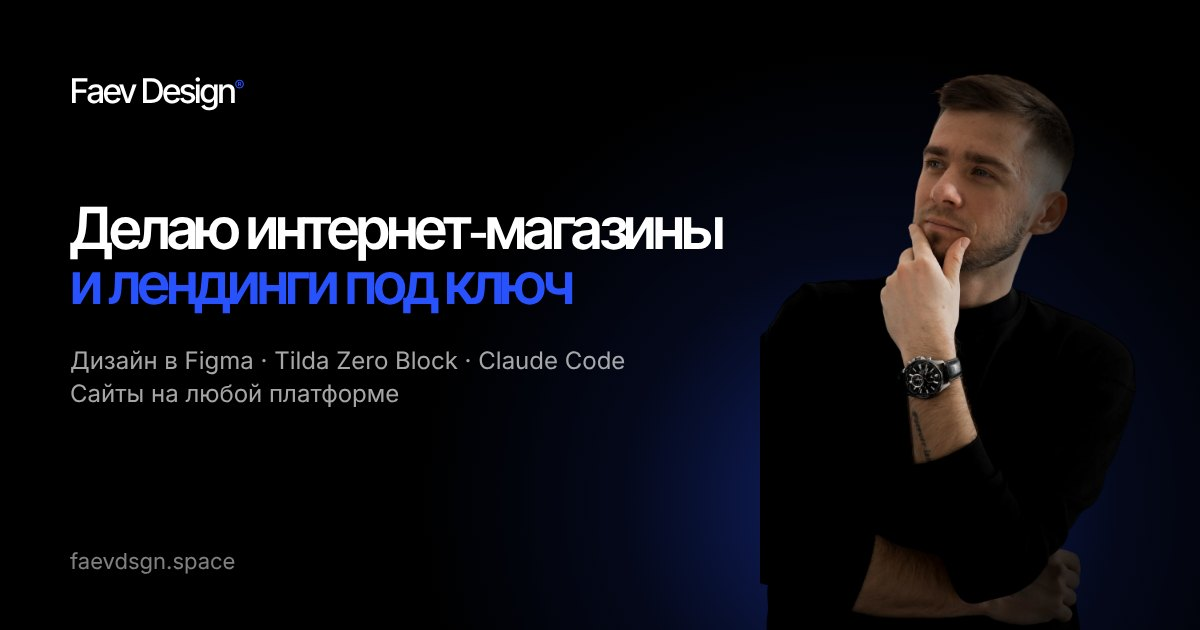
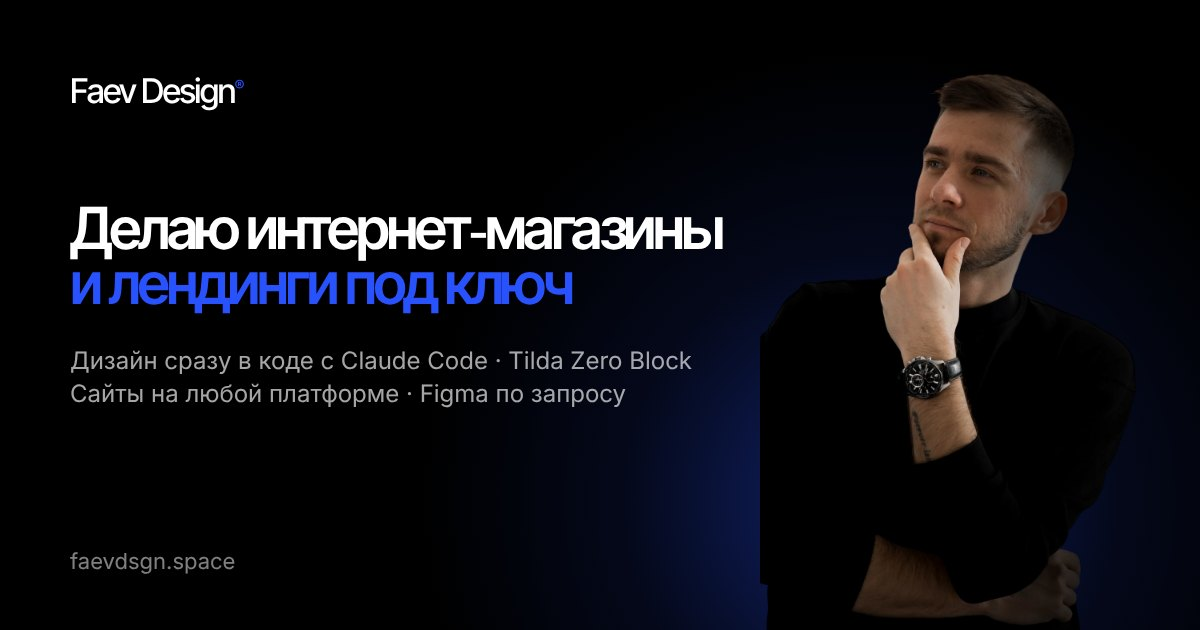
Describe design-in-code workflow, Figma on request
Texts now say Ivan designs straight in code with Claude Code and draws
Figma mockups on request: description, manifesto, intro column, About,
UI/UX service list, payment FAQ, new FAQ item, English strings and the
link preview card.

Claude-Session: https://claude.ai/code/session_01B8JzorBwYD9xgAdkLgyuW4

Changed region(s): [[0.1233, 0.5429, 0.5858, 0.6635]]

diff --git a/js/i18n.js b/js/i18n.js
@@ -11,7 +11,7 @@
 const EN = {
     // Заголовок вкладки и описание для поисковиков
     'Faev Design — интернет-магазины и лендинги под ключ | Иван Фаев': 'Faev Design — online stores and landing pages, turnkey | Ivan Faev',
-    'Иван Фаев — веб-дизайнер. Делаю интернет-магазины и лендинги под ключ: дизайн в Figma, сайты на Tilda (Zero Block) и других платформах, разработка на коде с Claude Code.': 'Ivan Faev — web designer. I build online stores and landing pages, turnkey: design in Figma, websites on Tilda (Zero Block) and other platforms, coded development with Claude Code.',
+    'Иван Фаев — веб-дизайнер. Делаю интернет-магазины и лендинги под ключ: дизайн и разработка сразу в коде с Claude Code, сайты на Tilda (Zero Block) и других платформах, макеты в Figma — по запросу.': 'Ivan Faev — web designer. I build online stores and landing pages, turnkey: design and development straight in code with Claude Code, websites on Tilda (Zero Block) and other platforms, Figma mockups on request.',
 
     // Прелоадер и шапка
     'Веб-дизайн и разработка сайтов': 'Web design & development',
@@ -37,11 +37,10 @@ const EN = {
     'Открыт для проектов на 2026 год': 'Open for projects in 2026',
 
     // Манифест и цифры
-    'Беру проект целиком: от структуры и дизайна в Figma до готового сайта на Tilda или на коде. Не нужно искать отдельно дизайнера и разработчика — всё делаю сам.': 'I take the whole project: from structure and design in Figma to a finished website on Tilda or in code. No need to look for a separate designer and developer — I do it all myself.',
+    'Беру проект целиком: от структуры и дизайна до готового сайта. Чаще всего делаю дизайн сразу в коде — вы видите живой сайт, а не картинку. Не нужно искать отдельно дизайнера и разработчика — всё делаю сам.': 'I take the whole project: from structure and design to a finished website. Most often I design straight in code — you see a live site, not a picture. No need to look for a separate designer and developer — I do it all myself.',
     'Понятный процесс: бриф, структура, дизайн, вёрстка и запуск. На каждом этапе вы видите результат и можете внести правки.': 'A clear process: brief, structure, design, build and launch. At every stage you see the result and can request changes.',
     'Дизайн и вёрстка в одних руках': 'Design and build in one pair of hands',
-    'Сам рисую макет в Figma и сам собираю его на Tilda или в коде — ничего не теряется при передаче между подрядчиками.':
-        'I design the layout in Figma and build it myself on Tilda or in code — nothing gets lost between contractors.',
+    'Дизайн делаю сразу в коде, опираясь на опыт и насмотренность. Если нужно сначала согласовать макет — отрисую его в Figma.': 'I design straight in code, relying on experience and a trained eye. If you need to approve a mockup first, I’ll draw it in Figma.',
     'лет в веб-дизайне': 'years in web design',
     'От лендинга до магазина': 'From landing page to online store',
     'Лендинг для рекламы или услуги, интернет-магазин с каталогом, корзиной и оплатой, корпоративный сайт компании.': 'A landing page for ads or a service, an online store with a catalogue, cart and payment, a corporate website.',
@@ -121,10 +120,8 @@ const EN = {
     '(Обо мне)': '(About)',
     'Привет, я Иван Фаев': 'Hi, I’m Ivan Faev',
     'Я веб-дизайнер: делаю дизайн и вёрстку интернет-магазинов, лендингов и корпоративных сайтов.': 'I’m a web designer: I design and build online stores, landing pages and corporate websites.',
-    'Собираю нестандартные проекты на Tilda, включая сложные анимации в Zero Block, CSS и JS, и разрабатываю сайты с помощью кода. Макеты рисую индивидуально в Figma под конкретные задачи бизнеса.':
-        'I build non-standard projects on Tilda, including complex animations in Zero Block, CSS and JS, and develop websites in code. Every layout is designed in Figma around the specific goals of the business.',
-    'В разработке активно работаю с Claude Code — AI-ассистентом для программирования. Он помогает быстрее собирать сайты на коде, сложные анимации и интеграции, а у меня остаётся больше времени на дизайн и детали.':
-        'In development I work extensively with Claude Code, an AI coding assistant. It helps me build coded websites, complex animations and integrations faster, leaving more time for design and details.',
+    'Собираю нестандартные проекты на Tilda, включая сложные анимации в Zero Block, CSS и JS, и разрабатываю сайты с помощью кода. Работаю и в Figma: если проекту нужен отдельный макет, отрисую его по запросу.': 'I build non-standard projects on Tilda, including complex animations in Zero Block, CSS and JS, and develop websites in code. I also work in Figma: if a project needs a separate mockup, I’ll design it on request.',
+    'Основной инструмент — Claude Code, AI-ассистент для программирования. Собираю дизайн сразу в коде: ставлю задачу, а опыт и насмотренность помогают быстро прийти к нужному результату. Сайт с анимациями и интеграциями готов быстрее, а правки видны сразу на живой странице.': 'My main tool is Claude Code, an AI coding assistant. I build the design straight in code: I set the task, and experience and a trained eye help me get to the right result fast. A site with animations and integrations is ready sooner, and changes show up right on the live page.',
     'Работаю удалённо, на связи в Telegram и WhatsApp.': 'I work remotely and I’m available on Telegram and WhatsApp.',
 
     // Услуги
@@ -132,9 +129,9 @@ const EN = {
     'Что я могу для вас сделать': 'What I can do for you',
     'UI/UX дизайн': 'UI/UX design',
     'Проектирование логики': 'User flows and logic',
-    'Индивидуальный дизайн в Figma': 'Custom design in Figma',
+    'Дизайн сразу в коде или в Figma': 'Design straight in code or in Figma',
     'Десктоп и мобильная версии': 'Desktop and mobile versions',
-    'Подготовка макетов к вёрстке': 'Developer-ready layouts',
+    'Макет в Figma — по запросу': 'Figma mockup on request',
     'Вёрстка на Tilda / кодинг': 'Tilda build / coding',
     'Перенос дизайна на платформу': 'Moving the design to the platform',
     'Сложная анимация (Zero Block)': 'Complex animation (Zero Block)',
@@ -153,8 +150,10 @@ const EN = {
     '(Вопросы)': '(FAQ)',
     'Частые вопросы': 'Frequently asked questions',
     'Как происходит оплата?': 'How does payment work?',
-    'Работа делится на этапы. Обычно это предоплата 50% перед началом работы над дизайном и оставшиеся 50% после утверждения макетов — перед вёрсткой или сдачей готового проекта.':
-        'The work is split into stages. Usually it’s a 50% prepayment before the design starts and the remaining 50% once the layouts are approved — before development or delivery of the finished project.',
+    'Работа делится на этапы. Обычно это предоплата 50% перед началом работы и оставшиеся 50% после согласования дизайна или при сдаче готового проекта.': 'The work is split into stages. Usually it’s a 50% prepayment before the work starts and the remaining 50% once the design is approved or when the finished project is delivered.',
+    'Будет ли макет в Figma?': 'Will there be a Figma mockup?',
+    'По запросу — да. Обычно я делаю дизайн сразу в коде: вы смотрите живой сайт в браузере и на телефоне и даёте правки. Если нужно сначала утвердить картинку или передать макет другой команде, отрисую дизайн в Figma.':
+        'Yes, on request. Usually I design straight in code: you look at the live site in a browser and on your phone and give feedback. If you need to approve a picture first or hand a mockup to another team, I’ll design it in Figma.',
     'Сколько времени занимает разработка?': 'How long does development take?',
     'Всё зависит от сложности задачи. Лендинг в среднем занимает от 7 до 14 дней. Многостраничный корпоративный сайт — от 3 до 5 недель с учётом всех согласований.':
         'It depends on the complexity. A landing page usually takes 7 to 14 days. A multi-page corporate website takes 3 to 5 weeks, including all approvals.',

diff --git a/index.html b/index.html
@@ -4,14 +4,14 @@
     <meta charset="UTF-8">
     <meta name="viewport" content="width=device-width, initial-scale=1.0">
     <title>Faev Design — интернет-магазины и лендинги под ключ | Иван Фаев</title>
-    <meta name="description" content="Иван Фаев — веб-дизайнер. Делаю интернет-магазины и лендинги под ключ: дизайн в Figma, сайты на Tilda (Zero Block) и других платформах, разработка на коде с Claude Code.">
+    <meta name="description" content="Иван Фаев — веб-дизайнер. Делаю интернет-магазины и лендинги под ключ: дизайн и разработка сразу в коде с Claude Code, сайты на Tilda (Zero Block) и других платформах, макеты в Figma — по запросу.">
 
     <!-- Превью ссылки в Telegram, WhatsApp, соцсетях -->
     <meta property="og:type" content="website">
     <meta property="og:site_name" content="Faev Design">
     <meta property="og:url" content="https://faevdsgn.space/">
     <meta property="og:title" content="Faev Design — интернет-магазины и лендинги под ключ | Иван Фаев">
-    <meta property="og:description" content="Иван Фаев — веб-дизайнер. Делаю интернет-магазины и лендинги под ключ: дизайн в Figma, сайты на Tilda (Zero Block) и других платформах, разработка на коде с Claude Code.">
+    <meta property="og:description" content="Иван Фаев — веб-дизайнер. Делаю интернет-магазины и лендинги под ключ: дизайн и разработка сразу в коде с Claude Code, сайты на Tilda (Zero Block) и других платформах, макеты в Figma — по запросу.">
     <meta property="og:image" content="https://faevdsgn.space/img/og-image.jpg">
     <meta property="og:image:width" content="1200">
     <meta property="og:image:height" content="630">
@@ -22,7 +22,7 @@
     <link rel="preconnect" href="https://fonts.googleapis.com">
     <link rel="preconnect" href="https://fonts.gstatic.com" crossorigin>
     <link href="https://fonts.googleapis.com/css2?family=Inter:wght@400;500&family=Inter+Tight:wght@400;500;600&display=swap" rel="stylesheet">
-    <link rel="stylesheet" href="css/style.css?v=20261119">
+    <link rel="stylesheet" href="css/style.css?v=20261126">
 </head>
 <body>
 
@@ -133,7 +133,7 @@
         <section class="intro section" id="about">
             <div class="container">
                 <p class="intro__text" data-haze>
-                    Беру проект целиком: от структуры и дизайна в Figma до готового сайта на Tilda или на коде. Не нужно искать отдельно дизайнера и разработчика — всё делаю сам.
+                    Беру проект целиком: от структуры и дизайна до готового сайта. Чаще всего делаю дизайн сразу в коде — вы видите живой сайт, а не картинку. Не нужно искать отдельно дизайнера и разработчика — всё делаю сам.
                 </p>
 
                 <div class="intro__grid">
@@ -143,7 +143,7 @@
                     </div>
                     <div class="intro__col" data-reveal data-delay="1">
                         <h3>Дизайн и вёрстка в одних руках</h3>
-                        <p class="muted">Сам рисую макет в Figma и сам собираю его на Tilda или в коде — ничего не теряется при передаче между подрядчиками.</p>
+                        <p class="muted">Дизайн делаю сразу в коде, опираясь на опыт и насмотренность. Если нужно сначала согласовать макет — отрисую его в Figma.</p>
                         <div class="stat">
                             <span class="stat__num"><span class="counter" data-target="5">0</span>+</span>
                             <span class="stat__label muted">лет в веб-дизайне</span>
@@ -390,8 +390,8 @@
                     <span class="label" data-reveal>(Обо мне)</span>
                     <h2 class="h2" data-reveal>Привет, я Иван Фаев</h2>
                     <p class="about__p" data-haze>Я веб-дизайнер: делаю дизайн и вёрстку интернет-магазинов, лендингов и корпоративных сайтов.</p>
-                    <p class="about__p" data-haze>Собираю нестандартные проекты на Tilda, включая сложные анимации в Zero Block, CSS и JS, и разрабатываю сайты с помощью кода. Макеты рисую индивидуально в Figma под конкретные задачи бизнеса.</p>
-                    <p class="about__p" data-haze>В разработке активно работаю с Claude Code — AI-ассистентом для программирования. Он помогает быстрее собирать сайты на коде, сложные анимации и интеграции, а у меня остаётся больше времени на дизайн и детали.</p>
+                    <p class="about__p" data-haze>Собираю нестандартные проекты на Tilda, включая сложные анимации в Zero Block, CSS и JS, и разрабатываю сайты с помощью кода. Работаю и в Figma: если проекту нужен отдельный макет, отрисую его по запросу.</p>
+                    <p class="about__p" data-haze>Основной инструмент — Claude Code, AI-ассистент для программирования. Собираю дизайн сразу в коде: ставлю задачу, а опыт и насмотренность помогают быстро прийти к нужному результату. Сайт с анимациями и интеграциями готов быстрее, а правки видны сразу на живой странице.</p>
                     <p class="about__p" data-haze>Работаю удалённо, на связи в Telegram и WhatsApp.</p>
                     <ul class="tags" data-reveal>
                         <li>Figma</li><li>Tilda Zero Block</li><li>Claude Code</li><li>HTML / CSS / JS</li><li>Анимации</li><li>Адаптив</li>
@@ -414,9 +414,9 @@
                         <h3 class="service__title">UI/UX дизайн</h3>
                         <ul class="service__list">
                             <li>Проектирование логики</li>
-                            <li>Индивидуальный дизайн в Figma</li>
+                            <li>Дизайн сразу в коде или в Figma</li>
                             <li>Десктоп и мобильная версии</li>
-                            <li>Подготовка макетов к вёрстке</li>
+                            <li>Макет в Figma — по запросу</li>
                         </ul>
                         <span class="service__price">от $200</span>
                     </article>
@@ -456,7 +456,11 @@
                 <div class="faq__list">
                     <div class="faq__item" data-reveal>
                         <button class="faq__q">Как происходит оплата? <span class="faq__icon"></span></button>
-                        <div class="faq__a"><p>Работа делится на этапы. Обычно это предоплата 50% перед началом работы над дизайном и оставшиеся 50% после утверждения макетов — перед вёрсткой или сдачей готового проекта.</p></div>
+                        <div class="faq__a"><p>Работа делится на этапы. Обычно это предоплата 50% перед началом работы и оставшиеся 50% после согласования дизайна или при сдаче готового проекта.</p></div>
+                    </div>
+                    <div class="faq__item" data-reveal>
+                        <button class="faq__q">Будет ли макет в Figma? <span class="faq__icon"></span></button>
+                        <div class="faq__a"><p>По запросу — да. Обычно я делаю дизайн сразу в коде: вы смотрите живой сайт в браузере и на телефоне и даёте правки. Если нужно сначала утвердить картинку или передать макет другой команде, отрисую дизайн в Figma.</p></div>
                     </div>
                     <div class="faq__item" data-reveal>
                         <button class="faq__q">Сколько времени занимает разработка? <span class="faq__icon"></span></button>
@@ -546,8 +550,8 @@
         </div>
     </div>
 
-    <script src="js/i18n.js?v=20261119"></script>
-    <script src="js/vendor/lenis.min.js?v=20261119"></script>
-    <script src="js/main.js?v=20261119"></script>
+    <script src="js/i18n.js?v=20261126"></script>
+    <script src="js/vendor/lenis.min.js?v=20261126"></script>
+    <script src="js/main.js?v=20261126"></script>
 </body>
 </html>

diff --git a/consent.html b/consent.html
@@ -9,7 +9,7 @@
     <link rel="preconnect" href="https://fonts.googleapis.com">
     <link rel="preconnect" href="https://fonts.gstatic.com" crossorigin>
     <link href="https://fonts.googleapis.com/css2?family=Inter:wght@400;500&family=Inter+Tight:wght@400;500;600&display=swap" rel="stylesheet">
-    <link rel="stylesheet" href="css/style.css?v=20261119">
+    <link rel="stylesheet" href="css/style.css?v=20261126">
 </head>
 <body>
     <main class="legal">

diff --git a/privacy.html b/privacy.html
@@ -9,7 +9,7 @@
     <link rel="preconnect" href="https://fonts.googleapis.com">
     <link rel="preconnect" href="https://fonts.gstatic.com" crossorigin>
     <link href="https://fonts.googleapis.com/css2?family=Inter:wght@400;500&family=Inter+Tight:wght@400;500;600&display=swap" rel="stylesheet">
-    <link rel="stylesheet" href="css/style.css?v=20261119">
+    <link rel="stylesheet" href="css/style.css?v=20261126">
 </head>
 <body>
     <main class="legal">
